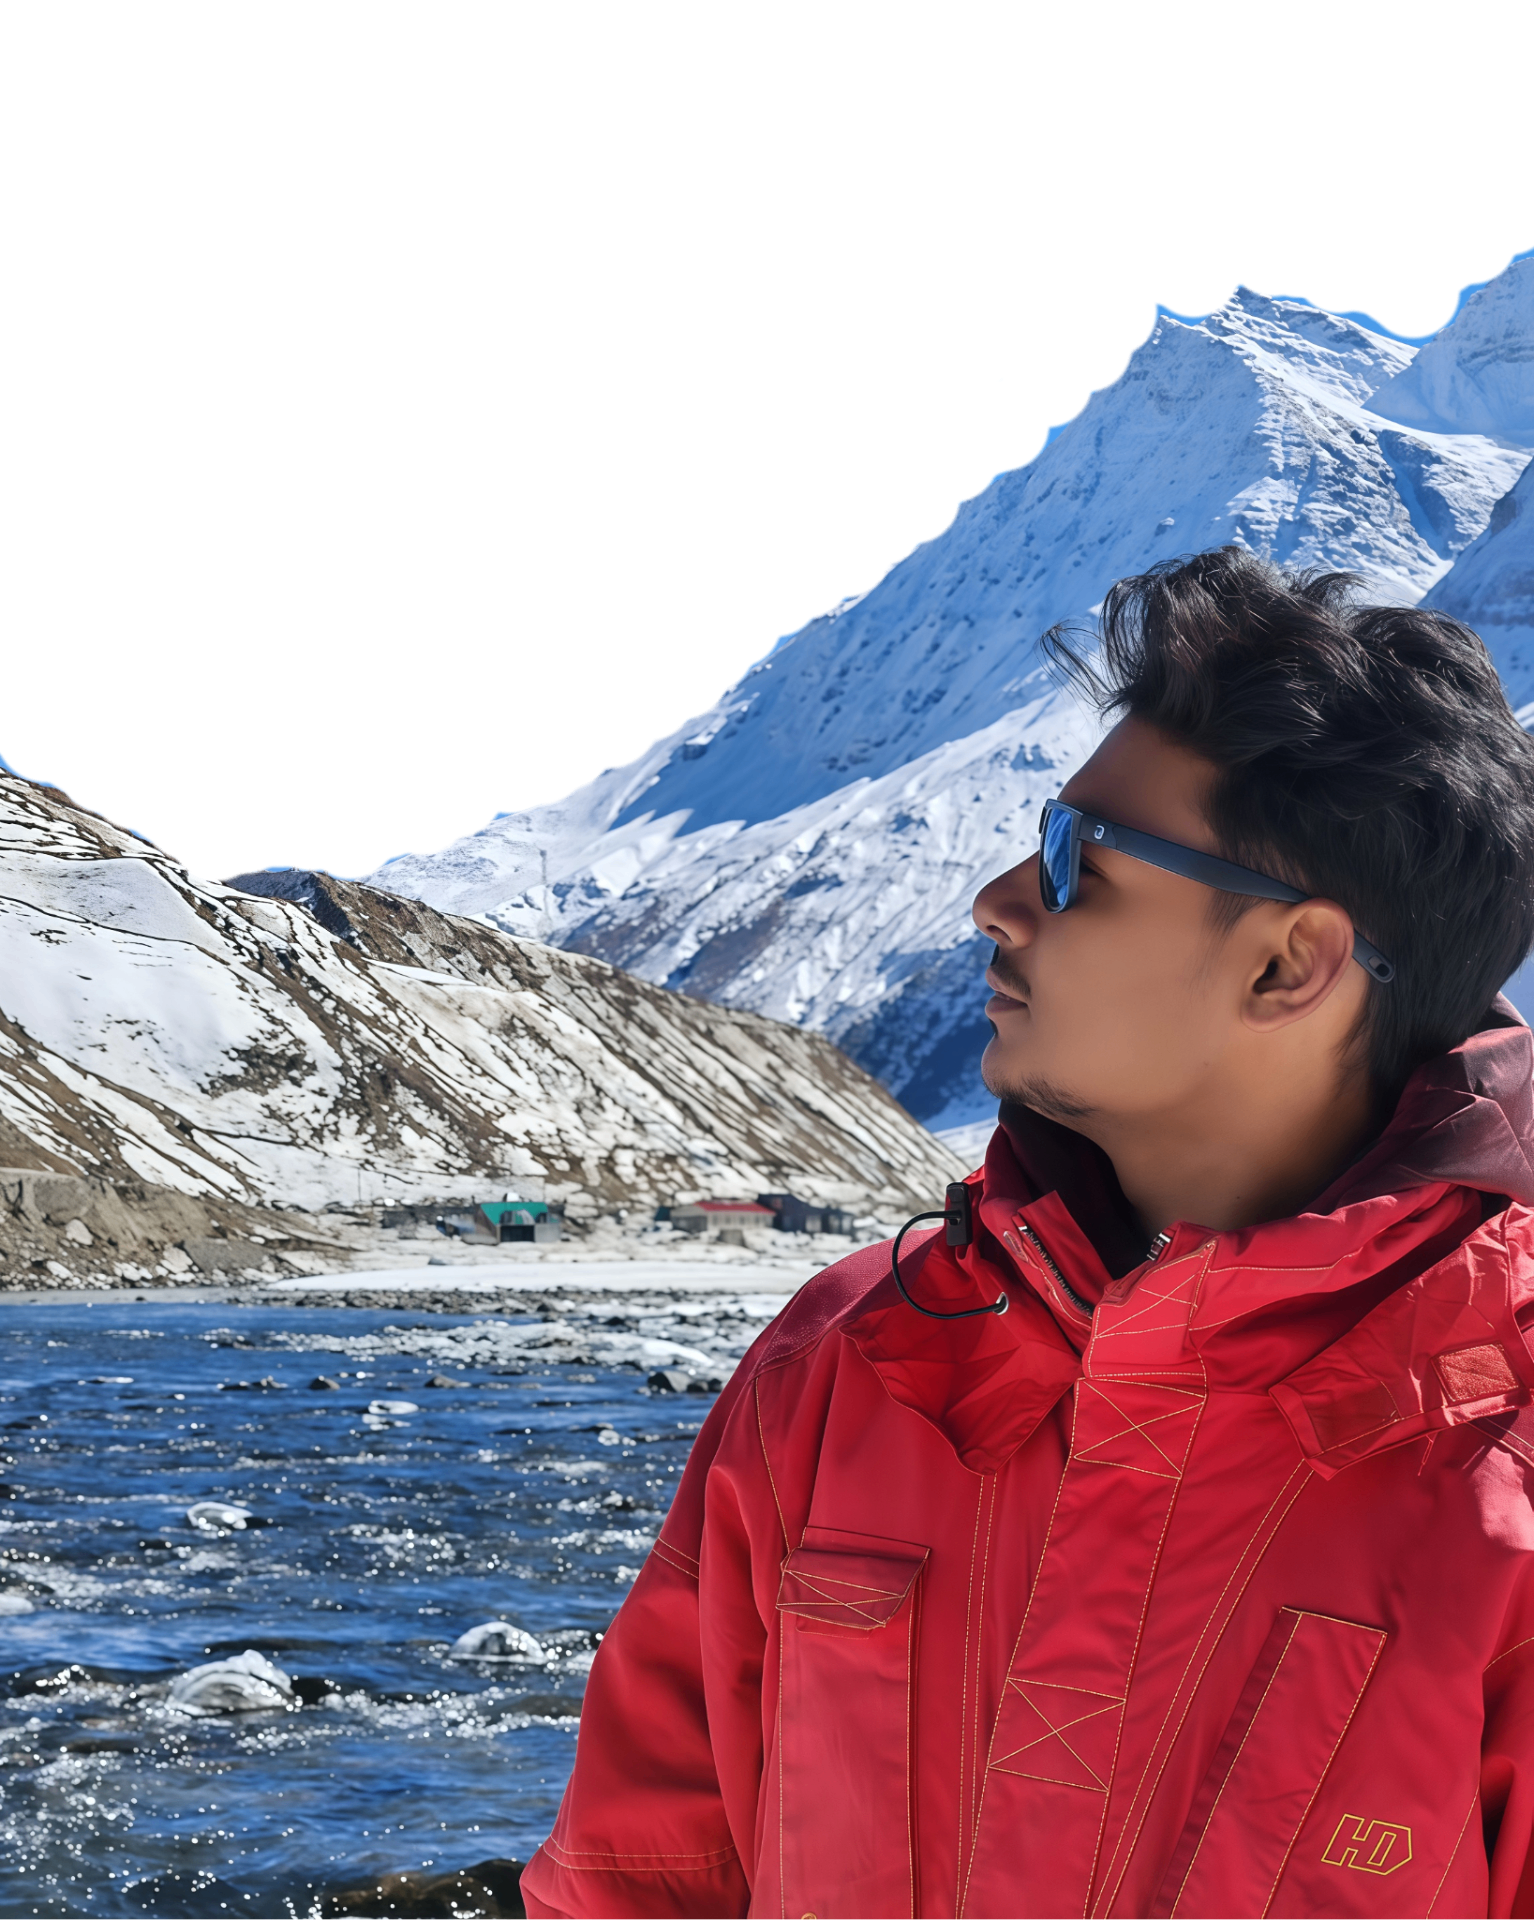
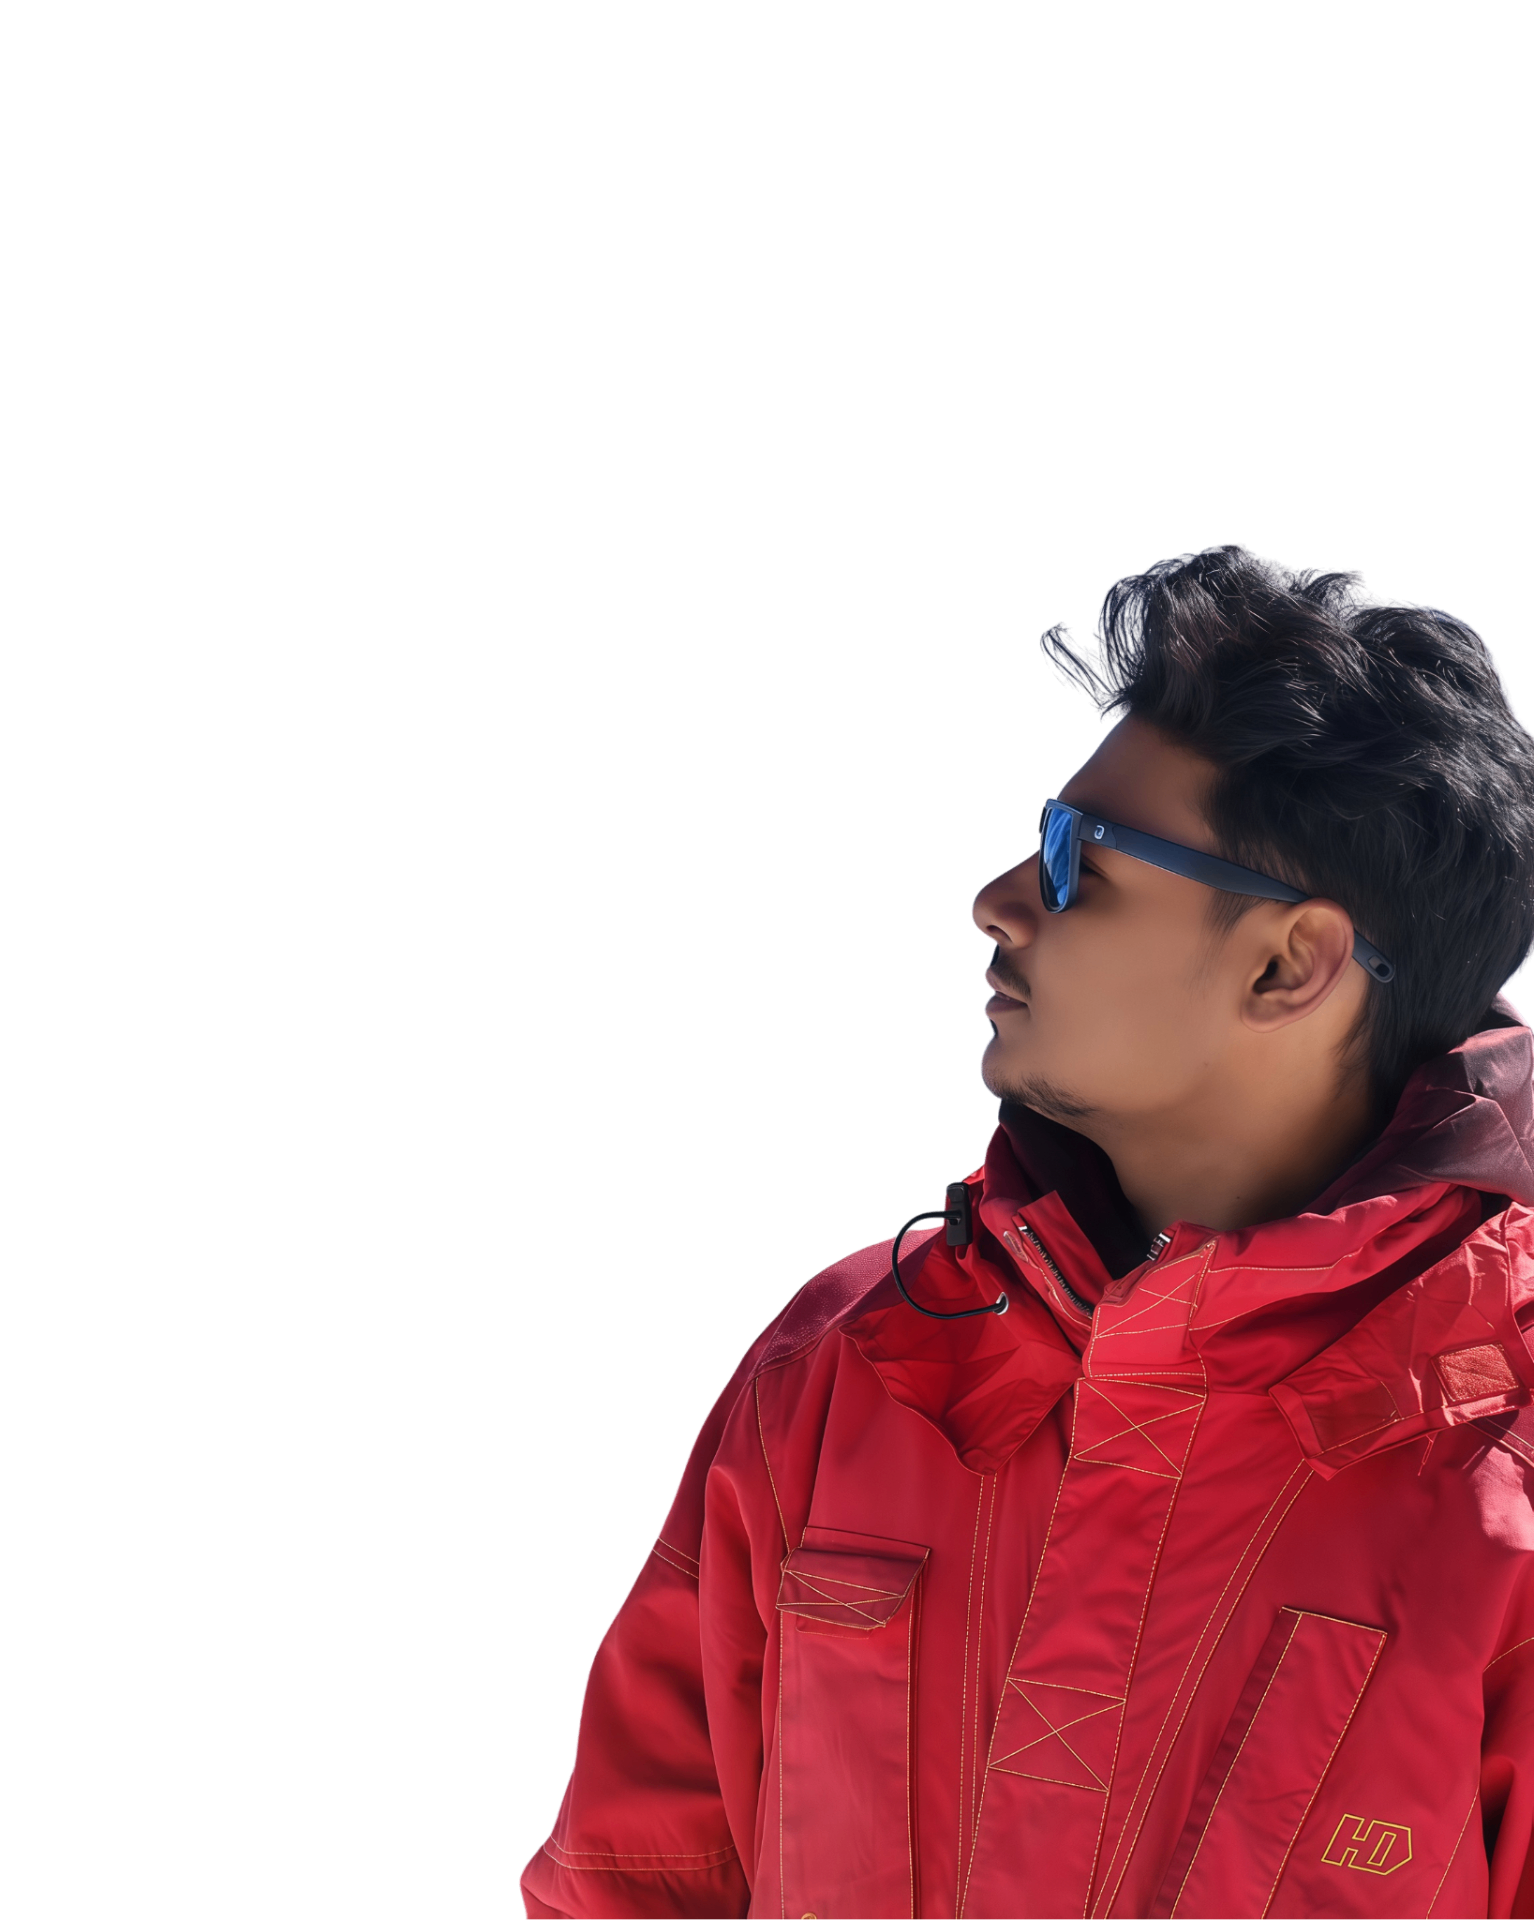
Changes

diff --git a/src/components/Hero.tsx b/src/components/Hero.tsx
@@ -115,20 +115,21 @@ const Hero = () => {
               {/* Inner decorative ring */}
               <div className="absolute -inset-4 md:-inset-5 border border-primary/30 rounded-full" />
               
-              {/* Main Image Container */}
+              {/* Main Container with overflow visible */}
               <div className="relative z-10">
-                {/* Gradient border effect */}
+                {/* Gradient border effect - the circular frame */}
                 <div className="absolute -inset-1 bg-gradient-to-br from-primary via-primary/50 to-primary/20 rounded-full blur-sm" />
                 
-                <div className="relative rounded-full overflow-hidden border-2 border-primary/60 shadow-2xl">
+                {/* Circular background frame */}
+                <div className="relative w-64 md:w-80 lg:w-96 h-64 md:h-80 lg:h-96 rounded-full border-2 border-primary/60 shadow-2xl bg-gradient-to-br from-background via-background to-muted/30 overflow-visible">
+                  {/* Image that extends outside the frame */}
                   <img 
                     src={heroImage} 
                     alt="Anush Pradhan" 
-                    className="w-64 md:w-80 lg:w-96 h-64 md:h-80 lg:h-96 object-cover object-top"
+                    className="absolute bottom-0 left-1/2 -translate-x-1/2 w-[130%] h-auto max-h-[140%] object-contain object-bottom drop-shadow-2xl"
                   />
-                  {/* Overlay gradient */}
-                  <div className="absolute inset-0 bg-gradient-to-t from-background/40 via-transparent to-transparent" />
-                  <div className="absolute inset-0 bg-gradient-to-br from-primary/10 via-transparent to-primary/5" />
+                  {/* Subtle inner glow */}
+                  <div className="absolute inset-0 rounded-full bg-gradient-to-t from-primary/10 via-transparent to-transparent pointer-events-none" />
                 </div>
               </div>
               
